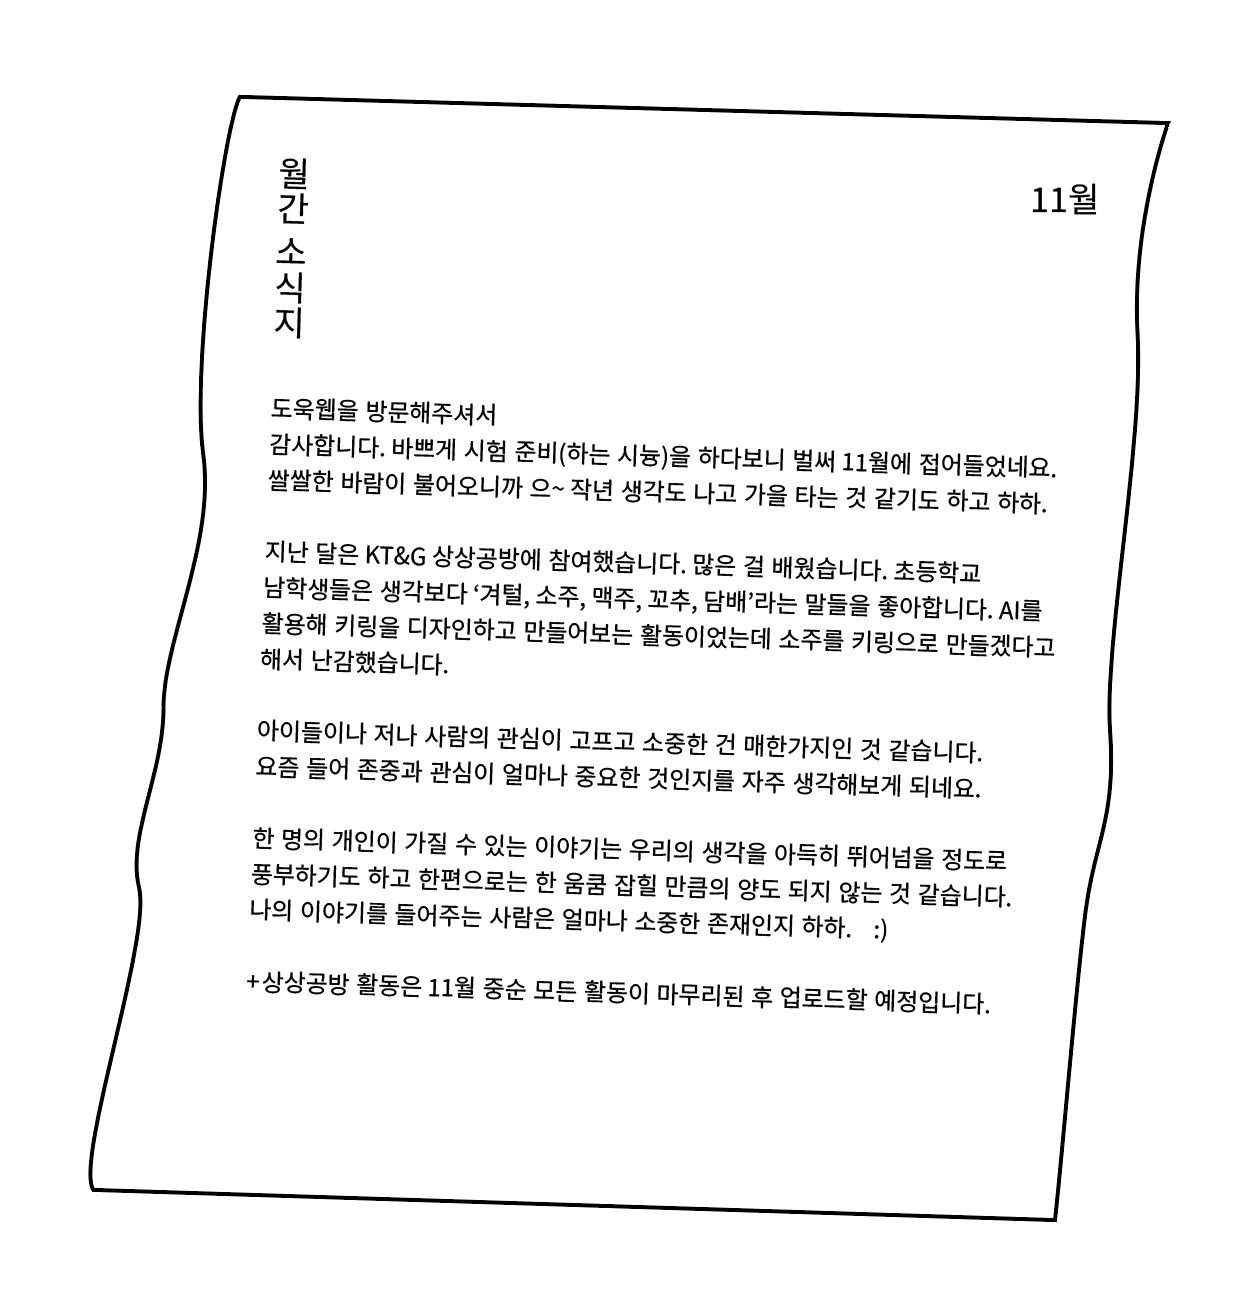
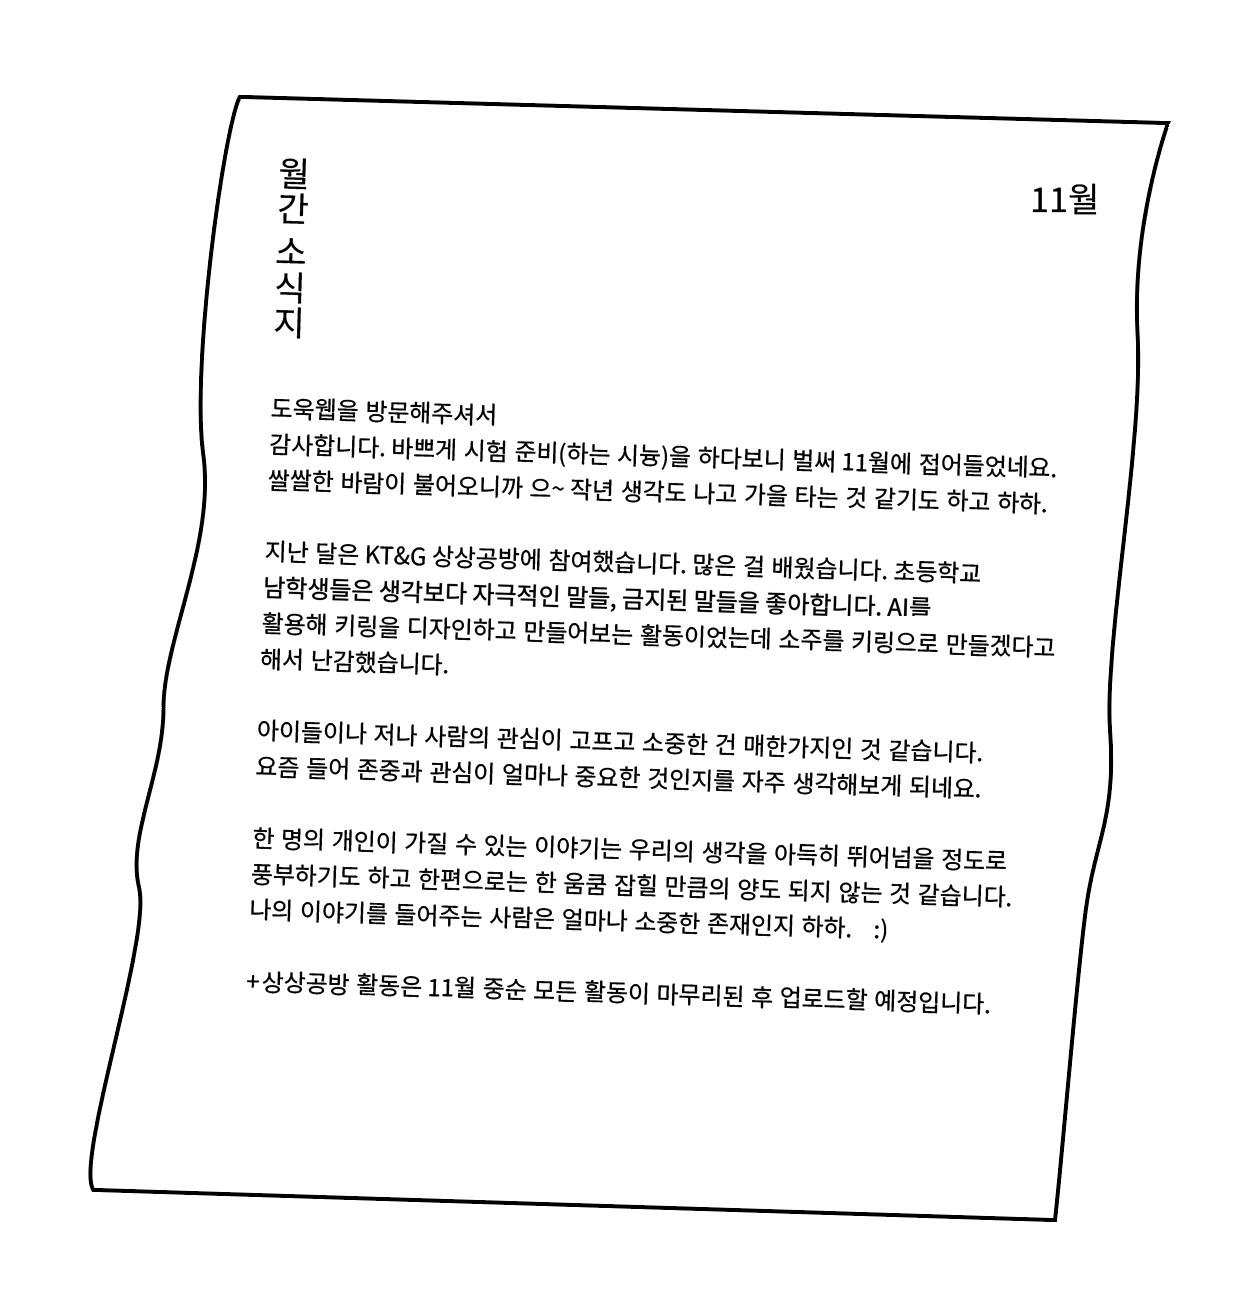
11월 소식지: 자극적인 단어를 '자극적인 말들, 금지된 말들'로 바꿈
Claude-Session: https://claude.ai/code/session_018nT6hi9sqj6me2UppQitoa

Changed region(s): [[0.2188, 0.4314, 0.8438, 0.4931]]

diff --git a/content/data.js b/content/data.js
@@ -1114,7 +1114,7 @@ window.SITE = {
   {
    "id": "2026-11",
    "src": "2026-11.png",
-   "alt": "월간 소식지 11월.\n도욱웹을 방문해주셔서 감사합니다. 바쁘게 시험 준비(하는 시늉)을 하다보니 벌써 11월에 접어들었네요. 쌀쌀한 바람이 불어오니까 으~ 작년 생각도 나고 가을을 타는 것 같기도 하고 하하.\n지난 달은 KT&G 상상공방에 참여했습니다. 많은 걸 배웠습니다. 초등학교 남학생들은 생각보다 ‘겨털, 소주, 맥주, 꼬추, 담배’라는 말들을 좋아합니다. AI를 활용해 키링을 디자인하고 만들어보는 활동이었는데 소주를 키링으로 만들겠다고 해서 난감했습니다.\n아이들이나 저나 사람의 관심이 고프고 소중한 건 매한가지인 것 같습니다. 요즘 들어 존중과 관심이 얼마나 중요한 것인지를 자주 생각해보게 되네요.\n한 명의 개인이 가질 수 있는 이야기는 우리의 생각을 아득히 뛰어넘을 정도로 풍부하기도 하고 한편으로는 한 움큼 잡힐 만큼의 양도 되지 않는 것 같습니다. 나의 이야기를 들어주는 사람은 얼마나 소중한 존재인지 하하. :)\n+상상공방 활동은 11월 중순 모든 활동이 마무리된 후 업로드할 예정입니다."
+   "alt": "월간 소식지 11월.\n도욱웹을 방문해주셔서 감사합니다. 바쁘게 시험 준비(하는 시늉)을 하다보니 벌써 11월에 접어들었네요. 쌀쌀한 바람이 불어오니까 으~ 작년 생각도 나고 가을을 타는 것 같기도 하고 하하.\n지난 달은 KT&G 상상공방에 참여했습니다. 많은 걸 배웠습니다. 초등학교 남학생들은 생각보다 자극적인 말들, 금지된 말들을 좋아합니다. AI를 활용해 키링을 디자인하고 만들어보는 활동이었는데 소주를 키링으로 만들겠다고 해서 난감했습니다.\n아이들이나 저나 사람의 관심이 고프고 소중한 건 매한가지인 것 같습니다. 요즘 들어 존중과 관심이 얼마나 중요한 것인지를 자주 생각해보게 되네요.\n한 명의 개인이 가질 수 있는 이야기는 우리의 생각을 아득히 뛰어넘을 정도로 풍부하기도 하고 한편으로는 한 움큼 잡힐 만큼의 양도 되지 않는 것 같습니다. 나의 이야기를 들어주는 사람은 얼마나 소중한 존재인지 하하. :)\n+상상공방 활동은 11월 중순 모든 활동이 마무리된 후 업로드할 예정입니다."
   }
  ]
 };
